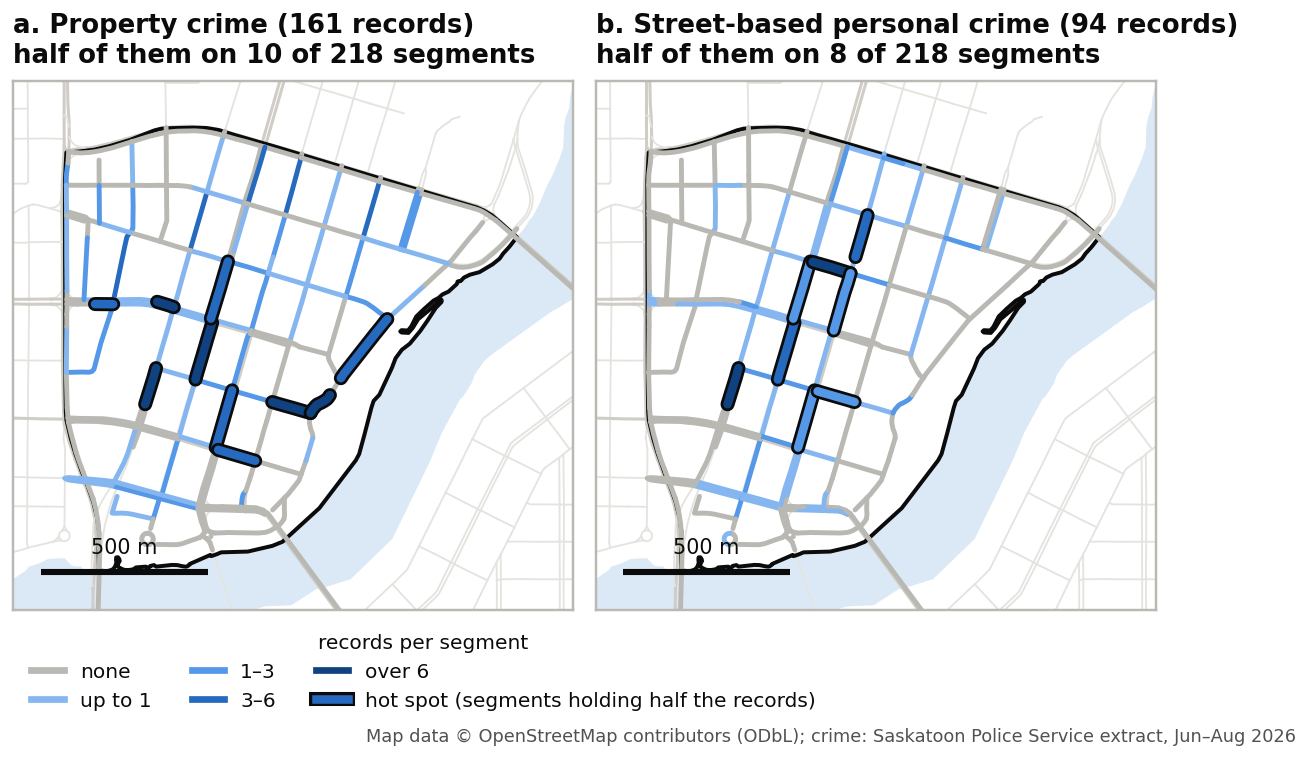
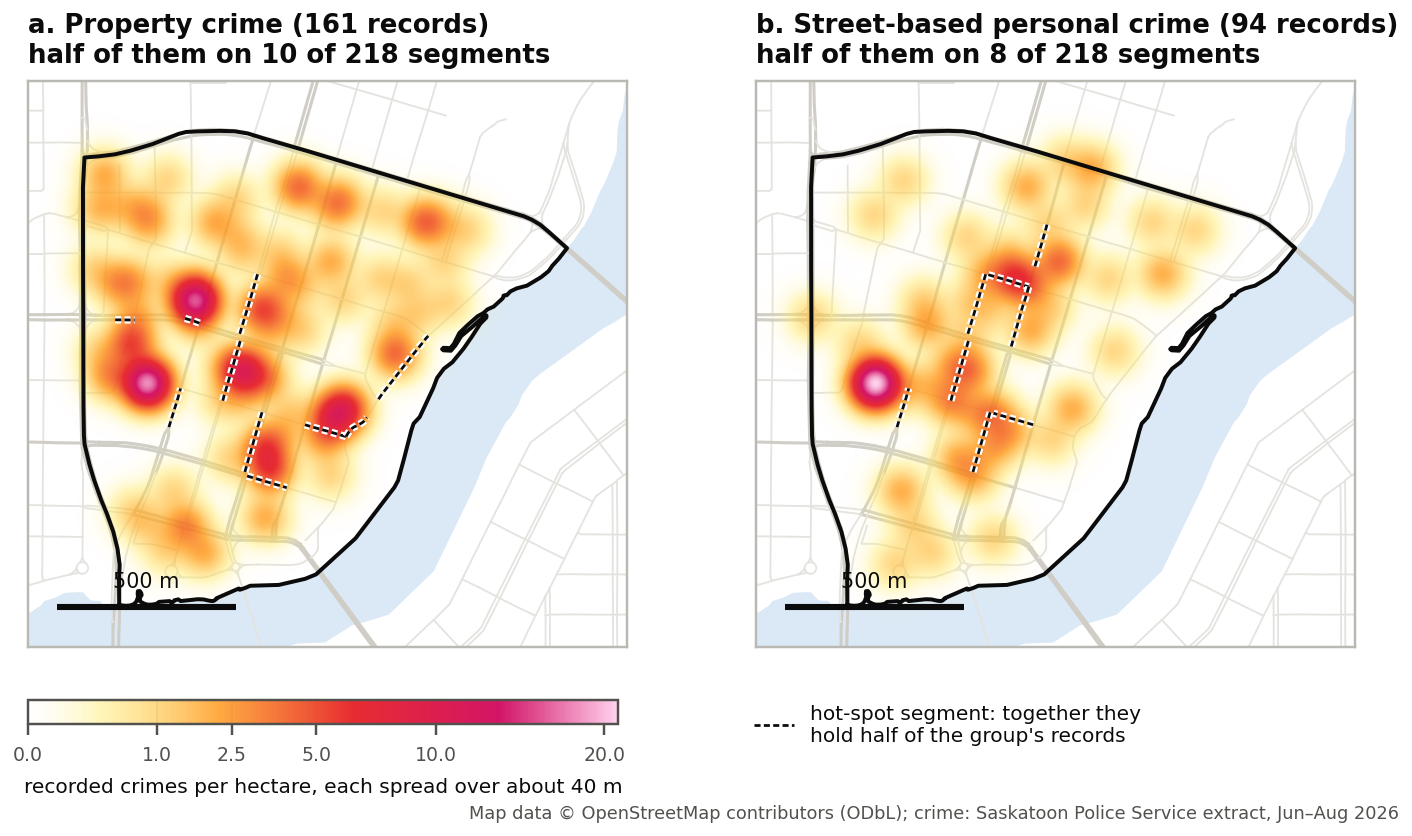
Plain-language README, crime heat map, November status in the docs
- README: what the project is in plain words, status table with verified numbers, glossary, team at the end
- Wording no longer addressed to the co-leads (October/August READMEs, docs index, handoff script, November byline)
- fig09: heat map of property and street-based personal crime with hot-spot segments dashed; captions updated
- October README: notes from the November check (missing section 3.2, three unsaved numbers, removed folders)
- workflow.md: step table and run times brought up to November

diff --git a/Scripts/reporting/build_november_report.js b/Scripts/reporting/build_november_report.js
@@ -1,7 +1,7 @@
 /*
  * build_november_report.js
  * ========================
- * ComputerVision_Sentinel | November 2026 midpoint update for the co-leads, as a Word report and a Markdown page.
+ * ComputerVision_Sentinel | November 2026 midpoint progress update, as a Word report and a Markdown page.
  *
  * Inputs : Docs/verification/november_2026_numbers.json   (Scripts/reporting/november_numbers.py)
  *          Docs/figures/mid_point_november/*.png           (Scripts/reporting/make_figures_november.py)
@@ -74,7 +74,7 @@ const cat = C.records_by_category;
 // ---- Title and 1. Summary ----
 blocks.push({ t: "title", text: "ComputerVision_Sentinel" });
 blocks.push({ t: "subtitle", text: "November 2026 midpoint update: street images, image models and crime hot spots" });
-blocks.push({ t: "byline", text: "Prepared by Ryan Ocampo for Dr. Varuni Jayasooriya and Dr. Timothy Kang" });
+blocks.push({ t: "byline", text: "Prepared by Ryan Ocampo" });
 blocks.push({ t: "rule", text: "November 2026  ·  revised work plan (October 2026)  ·  study period 1 June – 31 August 2026" });
 h1("1. Summary", false);
 p(`The November tasks in the revised work plan are to run the segmentation, detection and CLIP steps, to check their ` +
@@ -196,8 +196,9 @@ p(`**Hot spots:** crime is concentrated. Half of all study-category crime lies o
   `${C.hotspot_segments.all_study_crime} of the ${C.segments} segments (${pct(C.hotspot_segments.all_study_crime, C.segments)}%): ` +
   `half of property crime on ${C.hotspot_segments.property} segments and half of street-based personal crime on ` +
   `${C.hotspot_segments.street_personal}.`);
-figure("fig09_crime_hotspots.png", 6.3, `Recorded crime per street segment, June–August 2026. Outlined segments are the ` +
-  `hot spots: together they hold half of each group's records.`);
+figure("fig09_crime_hotspots.png", 6.3, `Where recorded crime clusters, June–August 2026 (heat map). Each record is spread ` +
+  `over about 40 m around the location the police data give (a block or an intersection), so brighter colours mean ` +
+  `more crime close together. Dashed segments are the hot spots: together they hold half of each group's records.`);
 figure("fig10_crime_by_category.png", 6.3, `Recorded crime per street segment for each study category.`);
 const top = C.top_segments;
 table("The five street segments with the most recorded crime", ["Street", "Length (m)", "Property", "Street-based personal", "All"],

diff --git a/Scripts/reporting/build_october_report.js b/Scripts/reporting/build_october_report.js
@@ -1,7 +1,7 @@
 /*
  * build_october_report.js
  * =======================
- * ComputerVision_Sentinel | October 2026 progress report (.docx) for the co-leads.
+ * ComputerVision_Sentinel | October 2026 progress report (.docx); its text is kept exactly as the report was sent.
  *
  * Inputs : Docs/verification/october_2026_numbers.json  (Scripts/reporting/report_numbers.py)
  *          Docs/figures/mid_point_october/*.png          (Scripts/reporting/make_figures.py)

diff --git a/Scripts/reporting/make_figures_november.py b/Scripts/reporting/make_figures_november.py
@@ -7,7 +7,7 @@ ComputerVision_Sentinel | Figures for the November 2026 midpoint update
 Every number is read from Data/; nothing is typed in by hand. Same palette, fonts and base map as the
 October figures (make_figures.py).
 
-  fig09_crime_hotspots.png       recorded crime per street segment, property and street-based personal; hot spots
+  fig09_crime_hotspots.png       heat map ("lava") of property and street-based personal crime; hot-spot segments dashed
   fig10_crime_by_category.png    the same, one small map per study category
   fig11_image_set.png            which points have a 2020 or 2023 image, which are excluded, which have none
   fig12_segmentation_examples.png four side views with what the segmentation model found
@@ -29,6 +29,7 @@ import matplotlib.pyplot as plt  # noqa: E402
 import numpy as np  # noqa: E402
 import pandas as pd  # noqa: E402
 from matplotlib import patheffects  # noqa: E402
+from matplotlib.colors import LinearSegmentedColormap, PowerNorm  # noqa: E402
 from matplotlib.lines import Line2D  # noqa: E402
 from PIL import Image  # noqa: E402
 
@@ -51,6 +52,18 @@ EXTENT = (-106.6725, 52.1210, -106.6480, 52.1352)
 BINS = [(0, 0, F.GREY, "none"), (0.01, 1, F.SEQ[0], "up to 1"), (1.01, 3, F.SEQ[1], "1–3"),
         (3.01, 6, F.SEQ[2], "3–6"), (6.01, 1e9, F.SEQ[3], "over 6")]
 HOT_OUTLINE = [patheffects.withStroke(linewidth=4.6, foreground=F.INK)]
+
+# Heat map ("lava") settings: how far each crime's glow spreads on the ground (metres), how many grid cells across
+# the map, metres per degree of longitude and latitude at Saskatoon, and the colour ramp from see-through through
+# yellow, orange and red to a pink-white core where crime is densest
+KERNEL_M = 40
+GRID_W = 480
+DASH_HALO = [patheffects.withStroke(linewidth=2.4, foreground="white")]
+M_PER_DEG_LON = 111_320 * np.cos(np.radians(52.13))
+M_PER_DEG_LAT = 110_540
+LAVA = LinearSegmentedColormap.from_list("lava", [
+    (0.00, (1.00, 0.97, 0.70, 0.00)), (0.12, (1.00, 0.92, 0.40, 0.45)), (0.32, (1.00, 0.60, 0.10, 0.82)),
+    (0.55, (0.90, 0.10, 0.12, 0.92)), (0.80, (0.82, 0.04, 0.38, 0.96)), (1.00, (1.00, 0.82, 0.93, 1.00))])
 CREDIT = "Map data © OpenStreetMap contributors (ODbL); crime: Saskatoon Police Service extract, Jun–Aug 2026"
 
 
@@ -115,23 +128,79 @@ def legend_handles(with_hot: bool) -> list:
     return hands
 
 
+def crime_records() -> pd.DataFrame:
+    """The CBD records in the study categories that hotspots.py placed on a street segment.
+
+    :return: one row per record, with longitude, latitude and crime_group
+    """
+    # Cleaned SPS records inside the CBD whose category is included or conditional
+    crime = pd.read_csv(H.CLEAN, low_memory=False)
+    crime = crime[crime.in_cbd & crime.category_decision.isin(["included", "conditional"])]
+    # Keep the records that were placed on a segment, so the maps hold the same records as the counts
+    links = pd.read_csv(CRIME / "record_links.csv")
+    return crime[crime.record_id.isin(links[links.segment_id.notna()].record_id)]
+
+
+def density(lons: pd.Series, lats: pd.Series, grid: tuple) -> np.ndarray:
+    """Smoothed crime per hectare on the map grid: each record becomes a bell-shaped bump about KERNEL_M wide.
+
+    :param lons: record longitudes
+    :param lats: record latitudes
+    :param grid: (grid longitudes, grid latitudes) from np.meshgrid
+    :return: records per hectare at every grid cell
+    """
+    # Start from zero everywhere, then add one bump per record (each bump holds exactly one record)
+    gx, gy = grid
+    dens = np.zeros_like(gx)
+    for lon, lat in zip(lons, lats):
+        d2 = ((gx - lon) * M_PER_DEG_LON) ** 2 + ((gy - lat) * M_PER_DEG_LAT) ** 2
+        dens += np.exp(-d2 / (2 * KERNEL_M ** 2))
+    # Bump height per square metre, turned into records per hectare (10,000 square metres)
+    return dens / (2 * np.pi * KERNEL_M ** 2) * 10_000
+
+
 def fig_hotspots(out: Path) -> None:
-    """fig09: property and street-based personal crime per segment, with hot spots."""
-    # Counts per segment and the summary of the placement
+    """fig09: heat maps of property and street-based personal crime, with the hot-spot segments outlined.
+
+    :param out: folder
+    """
+    # Hot-spot flags per segment, the placement summary, the segment lines and the records with their positions
     seg = pd.read_csv(CRIME / "segment_crime_counts.csv").set_index("segment_id")
     summ = json.loads((CRIME / "hotspot_summary.json").read_text())
     geo = segment_lonlat()
-    fig, axes = plt.subplots(1, 2, figsize=(6.7, 3.4))
-    # One panel per crime group
-    for ax, group, label in zip(axes, ["property", "street_personal"], ["a. Property crime", "b. Street-based personal crime"]):
+    rec = crime_records()
+    # A grid over the map with square cells on the ground
+    lon0, lat0, lon1, lat1 = EXTENT
+    grid_h = round(GRID_W * (lat1 - lat0) * M_PER_DEG_LAT / ((lon1 - lon0) * M_PER_DEG_LON))
+    grid = np.meshgrid(np.linspace(lon0, lon1, GRID_W), np.linspace(lat0, lat1, grid_h))
+    # One heat surface per crime group, on one shared colour scale so the two maps can be compared
+    heat = {g: density(rec[rec.crime_group == g].longitude, rec[rec.crime_group == g].latitude, grid) for g in H.GROUPS}
+    norm = PowerNorm(gamma=0.5, vmin=0, vmax=max(h.max() for h in heat.values()))
+    fig, axes = plt.subplots(1, 2, figsize=(6.7, 3.9))
+    # One map per crime group: base map, the heat on top, then the hot-spot segments as dashed black lines
+    for ax, group, label in zip(axes, H.GROUPS, ["a. Property crime", "b. Street-based personal crime"]):
+        F._draw_base(ax, *F._geo(), EXTENT)
+        img = ax.imshow(heat[group], extent=(lon0, lon1, lat0, lat1), origin="lower", cmap=LAVA, norm=norm,
+                        interpolation="bilinear", aspect="auto", zorder=3)
+        ax.set_aspect(1 / np.cos(np.radians(52.13)))
+        for seg_id, (xs, ys) in geo.items():
+            # Only the segments that, together, hold half of this group's records
+            if bool(seg.loc[seg_id, f"hotspot_{group}"]):
+                ax.plot(xs, ys, color=F.INK, lw=0.9, ls=(0, (2.2, 1.2)), zorder=6, path_effects=DASH_HALO)
         n = summ["records_by_group"][group]
         k = summ["hotspot_segments"][group]
-        draw_counts(ax, geo, seg[group], seg[f"hotspot_{group}"],
-                    f"{label} ({n:.0f} records)\nhalf of them on {k} of {summ['segments']} segments")
-    axes[0].legend(handles=legend_handles(True), title="records per segment", title_fontsize=6.6, loc="upper left",
-                   bbox_to_anchor=(0, -0.01), frameon=False, fontsize=6.6, ncol=3, handlelength=1.6)
-    fig.text(0.995, -0.035, CREDIT, ha="right", fontsize=5.8, color=F.INK_2)
-    fig.subplots_adjust(wspace=0.04)
+        ax.set_title(f"{label} ({n:.0f} records)\nhalf of them on {k} of {summ['segments']} segments",
+                     loc="left", fontsize=8.5, weight="bold")
+    # Room under the maps for the colour scale (left) and the hot-spot key (right)
+    fig.subplots_adjust(left=0.02, right=0.98, top=0.86, bottom=0.2, wspace=0.06)
+    bar = fig.colorbar(img, cax=fig.add_axes([0.05, 0.11, 0.4, 0.028]), orientation="horizontal",
+                       ticks=[t for t in (0, 1, 2.5, 5, 10, 20, 40) if t <= norm.vmax])
+    bar.set_label(f"recorded crimes per hectare, each spread over about {KERNEL_M} m", fontsize=6.6)
+    bar.ax.tick_params(labelsize=6.2)
+    fig.legend(handles=[Line2D([], [], color=F.INK, lw=0.9, ls=(0, (2.2, 1.2)), path_effects=DASH_HALO,
+                               label="hot-spot segment: together they\nhold half of the group's records")],
+               loc="upper left", bbox_to_anchor=(0.53, 0.155), frameon=False, fontsize=6.6)
+    fig.text(0.98, 0.0, CREDIT, ha="right", fontsize=5.8, color=F.INK_2)
     save(fig, "fig09_crime_hotspots.png", out)
 
 

diff --git a/README.md b/README.md
@@ -1,50 +1,74 @@
 # CPTED Computer Vision and Correlational Sentiment analysis of Public Safety - A Study on Crime Patterns - Saskatoon
 
-USask AIRI 2026 project on CPTED, crime and perceived safety in Saskatoon.
-Co-leads Dr. Varuni Jayasooriya (SENS) and Dr. Timothy Kang (Sociology); collaborators Dr. Khan Wahid (ECE) and
-Elisabeth Miller (City of Saskatoon, Neighbourhood Safety and CPTED); RA Ryan Ocampo.
+**ComputerVision_Sentinel**, a University of Saskatchewan (AIRI 2026) research project.
 
-The study follows the **revised work plan** (`Plan/workplan_revised_2026-10.pdf`): a cross-sectional, correlational
-study on open secondary data for **1 June – 31 August 2026**. CPTED features measured from street-level imagery (X) are
-correlated with recorded crime (Y1, Saskatoon Police Service) and with perceived safety on Reddit (Y2), on street
-segments in Downtown/CBD.
+## The project in plain words
 
-## Start here
+Some street designs are thought to make crime less likely: buildings with windows facing the street, good lighting,
+well-kept spaces, clear sight lines. The idea is called **CPTED** (Crime Prevention Through Environmental Design).
+This project tests it in **Downtown Saskatoon** for **1 June – 31 August 2026**, using only data that are already
+public:
 
-| You want | Open |
-|---|---|
-| The latest update for supervisors | `Deliverables/2026-10_october_update/` (October). The November midpoint update is kept local until it is sent; `./flight` rebuilds it into `RESULTS_FINAL/EXECUTION-<n>/report/` |
-| The literature review (CPTED evidence, crime and perception, pilot sites) | [`Docs/literature review/Master_lit_review.docx`](Docs/literature%20review/Master_lit_review.docx) |
-| How the whole study fits together, and how to run it | `Docs/workflow.md` |
-| The results, step by step, in notebooks | `Notebooks/` (start with `00_replicate_system.ipynb`) |
-| What has been checked, and how | `Docs/verification/october_2026_checks.md` |
-| Decisions and known problems | Decision D1 (image source: newest image at each point, decided November 2026) in `Docs/cv_pipeline.md`; Decision D2 (Reddit spatial unit) and the Reddit limitations in `Docs/reddit_pipeline.md`; gaps in the crime data in `Docs/crime_data.md` |
-| Any other documentation | `Docs/README.md` |
+| What is measured | Where it comes from | How |
+|---|---|---|
+| What the streets look like | street photos on Mapillary (a crowd-sourced site like Street View) | image models measure buildings, trees, sky, street lights, people and signs of disorder in each photo |
+| Where crime is recorded | Saskatoon Police Service (SPS) records | each record is placed on the street it names |
+| How safe people feel | posts and comments on Reddit's r/saskatoon | posts are tagged by place and scored for tone (negative, neutral, positive) |
 
-## Status
+Downtown is split into **218 short street segments**, with **423 sample points** about 50 m apart. Each segment gets
+street measures from the photos and a crime count; Reddit can only be placed by neighbourhood, not street by street.
+The last step compares them: do street features line up with where crime happens, and with how safe people feel?
+The plan is in `Plan/workplan_revised_2026-10.pdf`.
 
-| November task (work plan p. 5) | Status (8 Nov 2026) |
-|---|---|
-| Run segmentation, detection and CLIP | **Done, not yet validated**: 492 side views from 246 points on 121 of the 218 segments (newest 2020/2023 image per point, Decision D1); Mask2Former (Mapillary Vistas) for segmentation and objects, CLIP for cues (`Docs/cv_pipeline.md`) |
-| Check accuracy against hand-labelled images | **Sheet ready**: 150 side views drawn blind, 30 for a second coder; labelling next (`Docs/validation_plan.md`) |
-| Map crime hot spots by category | **Done**: 255 of 257 CBD study-category records placed on street segments; half of all study crime on 11 of 218 segments (`Docs/crime_data.md`) |
-
-| October task (work plan p. 5) | Status |
-|---|---|
-| Finalize crime categories | **Done**: 5 included, assault conditional, 4 excluded; SPS June–August 2026 extract added and cleaned: 9,650 records, 2,982 in the study categories (`Docs/crime_data.md`) |
-| Extend Reddit to June–August 2026 | **Done, verified**: 195 posts, 6,452 comments; every table reproduces byte-for-byte; 30 checks pass |
-| Generate sample points | **Done**: 423 points on 218 street segments; refined in November (11 bridge/freeway points flagged; images must face along the point's road) |
-| Collect street-level images | **Done: method validated**: 10 Mapillary images sourced and read by CLIP ViT-B/32 in the pipeline; no June–August 2026 imagery exists yet (newest 2020/2023), so the full set is sourced next |
+## Where it stands (8 November 2026)
 
 ![Workflow status, November 2026](Docs/figures/mid_point_november/fig14_workflow_status.png)
 
-November results in pictures (`Docs/figures/mid_point_november/`):
+| Step | Status | In numbers |
+|---|---|---|
+| Crime categories | Done (October) | 5 kinds of crime included, assault conditional, 4 excluded; 9,650 police records for June–August 2026, 2,982 in the study categories |
+| Reddit data | Done (October) | 195 posts and 6,452 comments; every table reproduces exactly; 30 automatic checks pass |
+| Sample points | Done (October, refined in November) | 423 points on 218 segments; 11 points on bridges or freeways get no photo |
+| Street photos | Done (November) | no photos from summer 2026 exist, so each point uses its newest photo from 2020 on that faces along its street: 246 points on 121 of the 218 segments (225 photos from 2020, 21 from 2023) |
+| Image models | Done, accuracy not yet checked (November) | segmentation, object counts and CLIP scores for all 492 side views (two per point) |
+| Accuracy check | Waiting for hand labels | 150 side views drawn for labelling, 30 of them for a second person; none labelled yet |
+| Crime hot spots | Done (November) | 255 of the 257 Downtown study-category records placed on segments; half of them lie on 11 segments |
+| Compare streets, crime and Reddit | Next (February–March 2027) | |
 
-| Crime per street segment, with hot spots | Points with a usable street image |
+Known gaps: the photos are 3–6 years older than the crime and Reddit data, and 97 segments (mostly east–west
+streets) have no usable photo, including 5 of the 11 crime hot spots. Details in `Docs/cv_pipeline.md` and
+`Docs/crime_data.md`.
+
+| Where crime clusters (heat map; hot-spot streets dashed) | Points with a usable street photo |
 |---|---|
 | ![Crime hot spots](Docs/figures/mid_point_november/fig09_crime_hotspots.png) | ![Image set](Docs/figures/mid_point_november/fig11_image_set.png) |
 
-The October figures, as sent, are in `Docs/figures/mid_point_october/`.
+All November figures are in `Docs/figures/mid_point_november/`; the October figures, as sent, in
+`Docs/figures/mid_point_october/`.
+
+## Words used here
+
+| Word | Meaning |
+|---|---|
+| Segment | a piece of street between two intersections; the unit the study compares |
+| Sample point | a spot on a segment, about every 50 m, where a photo is looked for |
+| Side view | a picture cut from a 360° photo that looks at one side of the street (the building fronts) |
+| Segmentation | an image model (Mask2Former) that labels every pixel as building, tree, sky, road and so on, giving the share of each |
+| CLIP | an image model that scores a photo against a written description, such as "graffiti on a wall" |
+| Hot spot | one of the segments that, together, hold half of the recorded crime |
+| Flight | the one command (`./flight`) that re-runs the whole project and checks every result against the saved copy |
+
+## Start here
+
+| To find | Open |
+|---|---|
+| The latest progress update | `Deliverables/2026-10_october_update/` (October). The November midpoint update is kept local until it is sent; `./flight` rebuilds it into `RESULTS_FINAL/EXECUTION-<n>/report/` |
+| The literature review (CPTED evidence, crime and perception, pilot sites) | [`Docs/literature review/Master_lit_review.docx`](Docs/literature%20review/Master_lit_review.docx) |
+| How the whole study fits together, and how to run it | `Docs/workflow.md` |
+| The results, step by step, in notebooks | `Notebooks/` (start with `00_replicate_system.ipynb`) |
+| What has been checked, and how | `Docs/verification/october_2026_checks.md`; every number in the updates: `Docs/verification/` |
+| Decisions and known problems | image source (Decision D1) in `Docs/cv_pipeline.md`; Reddit's place problem (Decision D2) and limits in `Docs/reddit_pipeline.md`; gaps in the crime data in `Docs/crime_data.md` |
+| Any other documentation | `Docs/README.md` |
 
 ## Folder map
 
@@ -83,8 +107,8 @@ RESULTS_FINAL/   one EXECUTION-<n>/ folder per flight run, plus executions.csv (
 **One command runs the whole pipeline** (repository root):
 
 ```bash
-./flight --execute_flight             # install -> collect (Reddit, Mapillary APIs) -> load CLIP + VADER -> results
-./flight --execute_flight --offline   # the same without API calls
+./flight --execute_flight             # everything, with fresh Reddit and Mapillary downloads (needs the keys)
+./flight --execute_flight --offline   # everything from the saved data, no downloads (about 13 min)
 ./flight --execute_flight --offline --skip-models   # quick check (about 2–3 min): all but re-running the image models
 ```
 
@@ -117,3 +141,8 @@ never write there, the flight runs 01–03 on every run, and a git filter keeps 
 - Numbers in deliverables come from scripts (`Scripts/reporting/report_numbers.py`, `november_numbers.py`).
 - Reddit text is not quoted outside the team; images credit Mapillary (CC BY-SA 4.0); maps credit OpenStreetMap.
   See `Docs/data_ethics.md`.
+
+## Team
+
+Co-leads Dr. Varuni Jayasooriya (SENS) and Dr. Timothy Kang (Sociology); collaborators Dr. Khan Wahid (ECE) and
+Elisabeth Miller (City of Saskatoon, Neighbourhood Safety and CPTED); research assistant Ryan Ocampo.

diff --git a/Docs/workflow.md b/Docs/workflow.md
@@ -32,15 +32,15 @@ places; it does not predict crime or label communities.
 | R1 | Collect Reddit for the study window | `Scripts/reddit_collection/reddit_scraper.py` | `Data/reddit_2026-06-01_2026-08-31/01_raw_collection/` | done, verified |
 | R2 | Clean, tag places and cues, score sentiment, audit | `Scripts/reddit_analysis/run_all.sh` | same dataset folder, `02`–`05`, `charts/` | done, reproduces exactly |
 | R3 | Code Reddit by place, crime type and cues (Dec–Jan) | to write | — | planned |
-| C1 | Sample points every ~50 m on OSM streets, clipped to the study area | `Scripts/cv_pilot/pilot.py points` | `Data/cv_pilot_2026-10/cbd/sample_points.*` | generated and checked; being refined (about two more weeks) |
-| C2 | Image collection (Mapillary) | `pilot.py coverage`, `pilot.py images` | `cbd/coverage_*.csv`, `cbd_latest_imagery/images/` | method validated on 10 images (Oct goal); full study set next |
-| C3 | Semantic segmentation (Mapillary Vistas model) | to write (Nov) | — | planned |
-| C4 | Object detection (streetlights, people, cars, benches, transit stops) | to write (Nov) | — | planned |
-| C5 | CLIP zero-shot cue scoring | `pilot.py score`, `clip_prompts.json` | `cbd_latest_imagery/clip_scores.csv` | runs in the pipeline on 10 images; accuracy check (C7) to come |
-| C6 | CPTED indicators per segment | to write | — | planned |
-| C7 | Validation against ~150 hand-labelled images | `validation_template_blind.csv` | — | started (10) |
+| C1 | Sample points every ~50 m on OSM streets, clipped to the study area | `Scripts/cv_pilot/pilot.py points` | `Data/cv_pilot_2026-10/cbd/sample_points.*` | done: 423 points on 218 segments; 11 bridge/freeway points flagged (Nov) |
+| C2 | Image collection (Mapillary) | `pilot.py coverage`; `Scripts/cv_study/images.py` | `cbd/coverage_*.csv`; `Data/cv_study_2026-11/images/` | done (Nov): 246 points on 121 of 218 segments, 492 side views |
+| C3 | Semantic segmentation (Mapillary Vistas model) | `Scripts/cv_study/models.py` | `Data/cv_study_2026-11/segmentation_shares.csv` | done (Nov); accuracy not yet checked |
+| C4 | Object detection (streetlights, people, cars, benches, transit stops) | `Scripts/cv_study/models.py` (same model) | `Data/cv_study_2026-11/object_counts.csv` | done (Nov); accuracy not yet checked |
+| C5 | CLIP zero-shot cue scoring | `Scripts/cv_study/models.py`, `clip_prompts.json` | `Data/cv_study_2026-11/clip_scores.csv` | done on all 492 views (Nov); the land-use label looks unreliable; accuracy check (C7) to come |
+| C6 | CPTED indicators per segment | `Scripts/cv_study/models.py` | `Data/cv_study_2026-11/segment_indicators.csv` | first version (Nov): averages per segment; combined indicators after C7 |
+| C7 | Validation against ~150 hand-labelled images | `Scripts/cv_study/validation.py` | `Data/cv_study_2026-11/validation/` | sheet ready: 150 views, 30 for a second coder; none labelled yet |
 | K1 | Crime categories | work plan p. 4; `Docs/crime_data.md` | — | done |
-| K2 | SPS data: clean, then counts per segment, hot spots (Nov) | `Scripts/crime_data/clean_sps_crime.py`; counts to write | `Data/sps_crime_2026-06-01_2026-08-31/02_cleaned/` | cleaned (9,650 records, 2,982 in the study categories); counts per segment next |
+| K2 | SPS data: clean, then counts per segment, hot spots (Nov) | `Scripts/crime_data/clean_sps_crime.py`; `Scripts/crime_data/hotspots.py` | `Data/sps_crime_2026-06-01_2026-08-31/02_cleaned/`, `03_segments/` | done: 9,650 records, 2,982 in the study categories; 255 of 257 CBD records placed; half on 11 segments |
 | L1 | Lighting and noise layers (Dec–Jan) | to write | — | planned |
 | I1 | Integration: join on segments/zones; Spearman, bivariate Moran's I, LISA, perception–crime gap (Feb–Mar) | to write | — | planned |
 | V | Verification of everything above | `Scripts/verification/verify_october_2026.py` | `Docs/verification/` | done for October |
@@ -63,8 +63,10 @@ Read `FLIGHT_SUMMARY.md` first: every step with its status (PASS, WARN = works w
 SKIP), time, result and log. `flight_status.json` holds the same for scripts, `logs/` each step's full output, and
 `RESULTS_FINAL/executions.csv` one row per run. Options (`./flight --help`): `--offline` (no API calls),
 `--skip-install`, `--skip-reddit-collection` (about 10 minutes), `--skip-coverage` (the slowest Mapillary step),
-`--skip-report`. A full run takes about 20 minutes once `.venv` and the CLIP model are installed (the Reddit
-collection is about 10 of them); a first run on a new machine also downloads the packages and the ~600 MB model.
+`--skip-report`, `--skip-models` (leaves out re-running the image models). An offline run takes about 13 minutes,
+11 of them for the image models (about 2–3 minutes with `--skip-models`); an online run adds the Reddit collection
+(about 10 minutes) and the Mapillary checks. A first run on a new machine also downloads the packages and the models
+(CLIP about 600 MB, Mask2Former about 830 MB).
 
 Two things the reproduction cannot match exactly, by design: the Excel workbook stores its creation time and
 `pilot_report.md` and `run_meta.json` store the run's time and git commit. The comparison reports these as

diff --git a/Scripts/reporting/README.md b/Scripts/reporting/README.md
@@ -5,7 +5,7 @@
 | `make_figures.py` | `Data/`, `Docs/verification/` | `Docs/figures/mid_point_october/fig01`–`fig08` (PNG, 220 dpi); `--out` for another folder |
 | `report_numbers.py` | `Data/`, `Docs/verification/october_2026_checks.csv` | `Docs/verification/october_2026_numbers.json`: every number the report quotes |
 | `build_october_report.js` | the JSON above and `Docs/figures/mid_point_october/` (`--numbers`, `--figures`, `--out` redirect each) | `Deliverables/2026-10_october_update/ComputerVision_Sentinel_October2026_Progress_Report.docx` |
-| `make_figures_november.py` | `Data/sps_crime_2026-06-01_2026-08-31/03_segments/`, `Data/cv_study_2026-11/` (fig12 re-runs the segmentation model on four views) | `Docs/figures/mid_point_november/fig09`–`fig14` (fig14: the workflow figure in the main README); `--only fig09,...` for a subset |
+| `make_figures_november.py` | `Data/sps_crime_2026-06-01_2026-08-31/03_segments/`, `Data/cv_study_2026-11/` (fig12 re-runs the segmentation model on four views) | `Docs/figures/mid_point_november/fig09`–`fig14` (fig09: crime heat map with hot spots; fig14: the workflow figure in the main README); `--only fig09,...` for a subset |
 | `november_numbers.py` | `Data/cv_study_2026-11/`, `Data/sps_crime_2026-06-01_2026-08-31/03_segments/` | `Docs/verification/november_2026_numbers.json`: every number the November update quotes |
 | `build_november_report.js` | the November JSON and `Docs/figures/mid_point_november/` (`--numbers`, `--figures`, `--out`, `--md`) | `Deliverables/2026-11_midpoint/ComputerVision_Sentinel_November2026_Midpoint_Update.docx` and the same text as `Deliverables/2026-11_midpoint/README.md`; both kept local (git-ignored) until the update is sent |
 

diff --git a/Deliverables/2026-10_october_update/README.md b/Deliverables/2026-10_october_update/README.md
@@ -1,4 +1,4 @@
-# October 2026 update (for Dr. Jayasooriya and Dr. Kang)
+# October 2026 progress update
 
 | File | What it is |
 |---|---|
@@ -29,3 +29,14 @@ The detailed documentation behind the report is in `Docs/` (start at `Docs/READM
 other-city review behind the location tags) was an automated first pass; it has not yet been checked by hand. The
 regenerated Figure 1 in `Docs/figures/mid_point_october/` shows it as started, and the check by hand is scheduled
 for November (`Scripts/reddit_analysis/scripts/blind_review.py`). The report files above are left exactly as sent.
+
+**Found in the November check (8 Nov 2026), not applied to the files as sent.**
+- Every number in the report was recomputed from `Data/` and matches.
+- Section 3.2 (Reddit) and Figures 3–5 are not in the report as sent, although the summary and section 3.1 refer
+  to section 3.2. The Reddit results are in `Data/reddit_2026-06-01_2026-08-31/` and `Docs/reddit_pipeline.md`.
+- Three numbers in section 3.3 came from one-off checks that were not saved in the repository: 491 June–August
+  2026 images over downtown Regina, 29,589 CBD images in Mapillary's map data, and 5 May 2024 as the newest
+  Saskatoon image. They cannot be re-checked from these files. The other numbers in that passage (19,139 images
+  found, newest CBD image 14 May 2023) are in `Data/cv_pilot_2026-10/cbd/`.
+- Table 4 lists `Data/reddit_2009_2025/` and `Data/crime/` (removed after sending, with the earlier prairie-cities
+  study; still in git history) and a July deliverable that is not in this repository.

diff --git a/Deliverables/2026-08_august_report/README.md b/Deliverables/2026-08_august_report/README.md
@@ -1,6 +1,6 @@
 # ComputerVision_Sentinel — August 2026 Package
 
-Reddit safety-perception analysis for the August supervisor meeting.
+Reddit safety-perception analysis prepared for the August 2026 project meeting.
 Source: r/saskatoon, 11 Jun 2025 – 11 Jun 2026 (426 posts, 14,889 comments).
 
 ---
@@ -27,7 +27,7 @@ Source: r/saskatoon, 11 Jun 2025 – 11 Jun 2026 (426 posts, 14,889 comments).
 
 - **`Master_Report.docx`** — the main deliverable. Verified analysis, six
   figures, site deep dives on Downtown/CBD and Riverbank/Meewasin, direct
-  answers to Dr. Jayasooriya's questions, limitations, and recommendations.
+  answers to the questions raised in July, limitations, and recommendations.
 - **`ComputerVision_Sentinel_Meewasin_DataQuality_Memo.docx`** — an earlier, narrower memo
   covering only the Riverbank/Meewasin location verification. Superseded in
   scope by the main report; kept because the report's appendix references it.

diff --git a/Docs/crime_data.md b/Docs/crime_data.md
@@ -104,6 +104,10 @@ segments the sample points sit on) and writes `Data/sps_crime_2026-06-01_2026-08
 
 ![Crime hot spots](figures/mid_point_november/fig09_crime_hotspots.png)
 
+The map is a heat map: each placed record is spread over about 40 m around the location the police data give
+(a block or an intersection), so brighter colours mean more crime close together. It shows where crime clusters;
+the hot-spot segments (dashed) stay the unit for analysis. Made by `Scripts/reporting/make_figures_november.py`.
+
 ## Validation for crime data
 
 - Locations are generalized to the hundred-block or intersection: 9,650 records sit on 2,625 points, and 199

diff --git a/Docs/README.md b/Docs/README.md
@@ -1,7 +1,7 @@
 # ComputerVision_Sentinel documentation
 
 The detailed record of how the study works, what has been checked and what is still open.
-The short version for supervisors is the October report in `Deliverables/2026-10_october_update/`.
+For a short summary of progress, read the October update in `Deliverables/2026-10_october_update/`.
 
 | Page | Read it for |
 |---|---|
